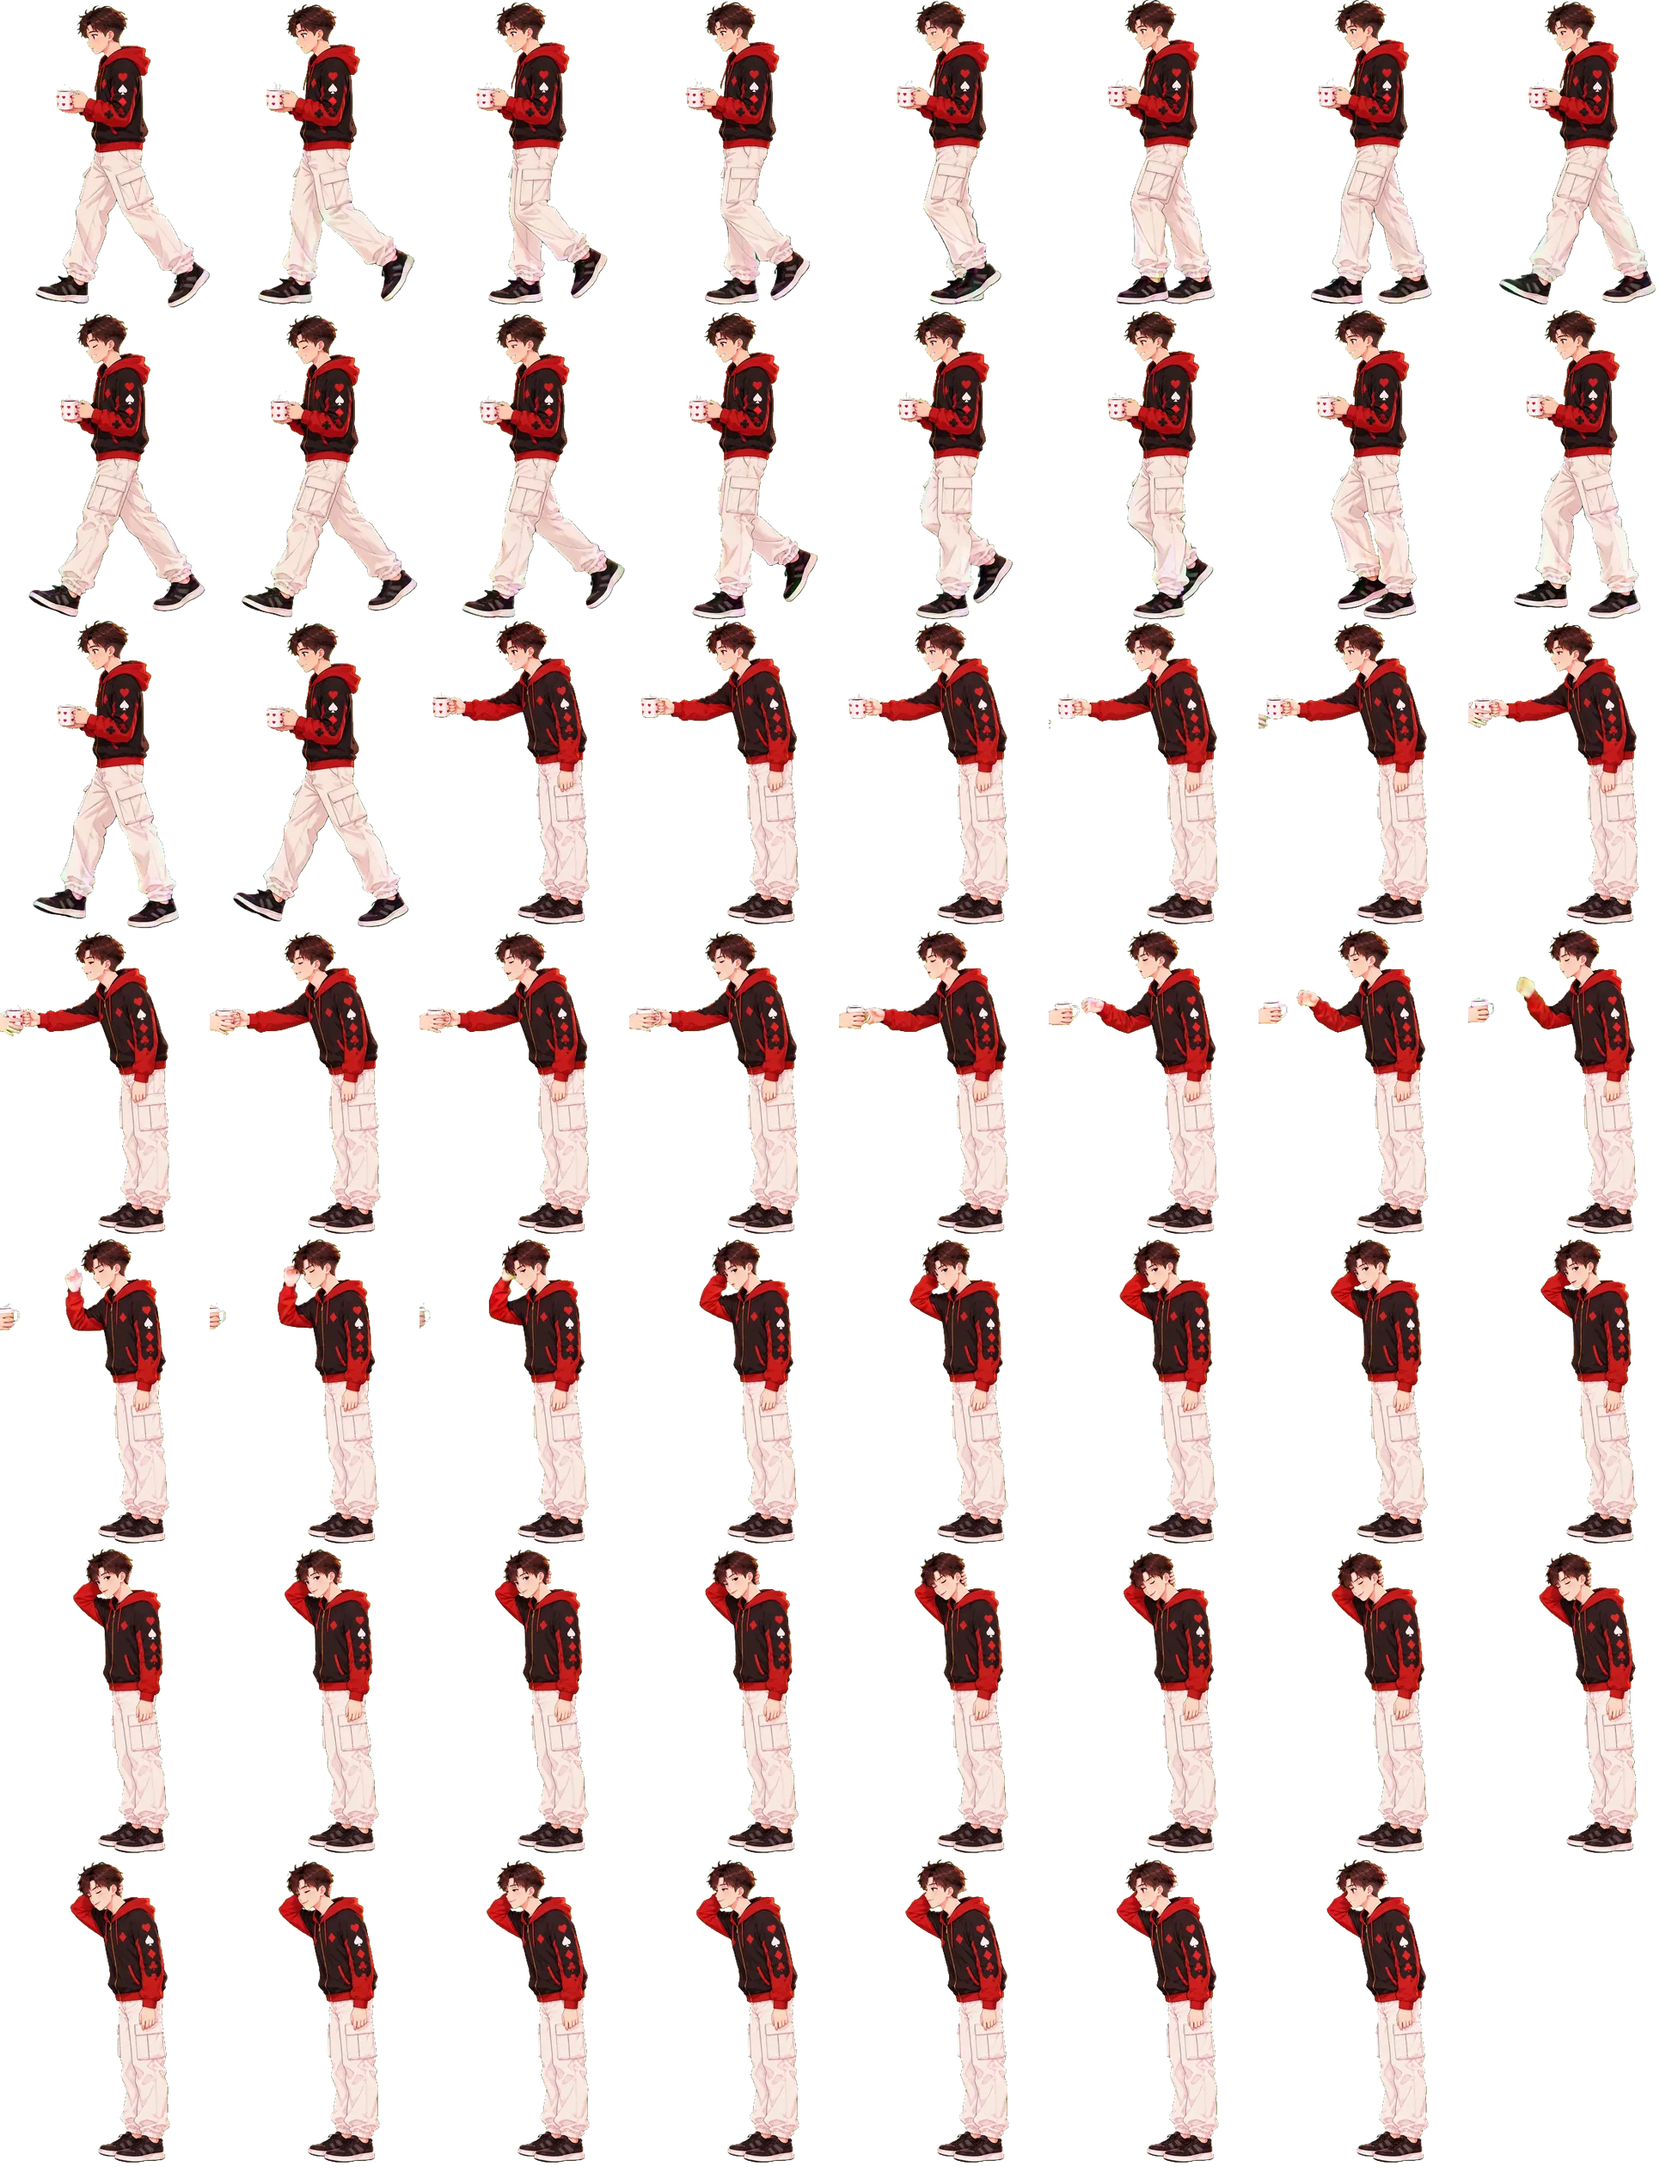
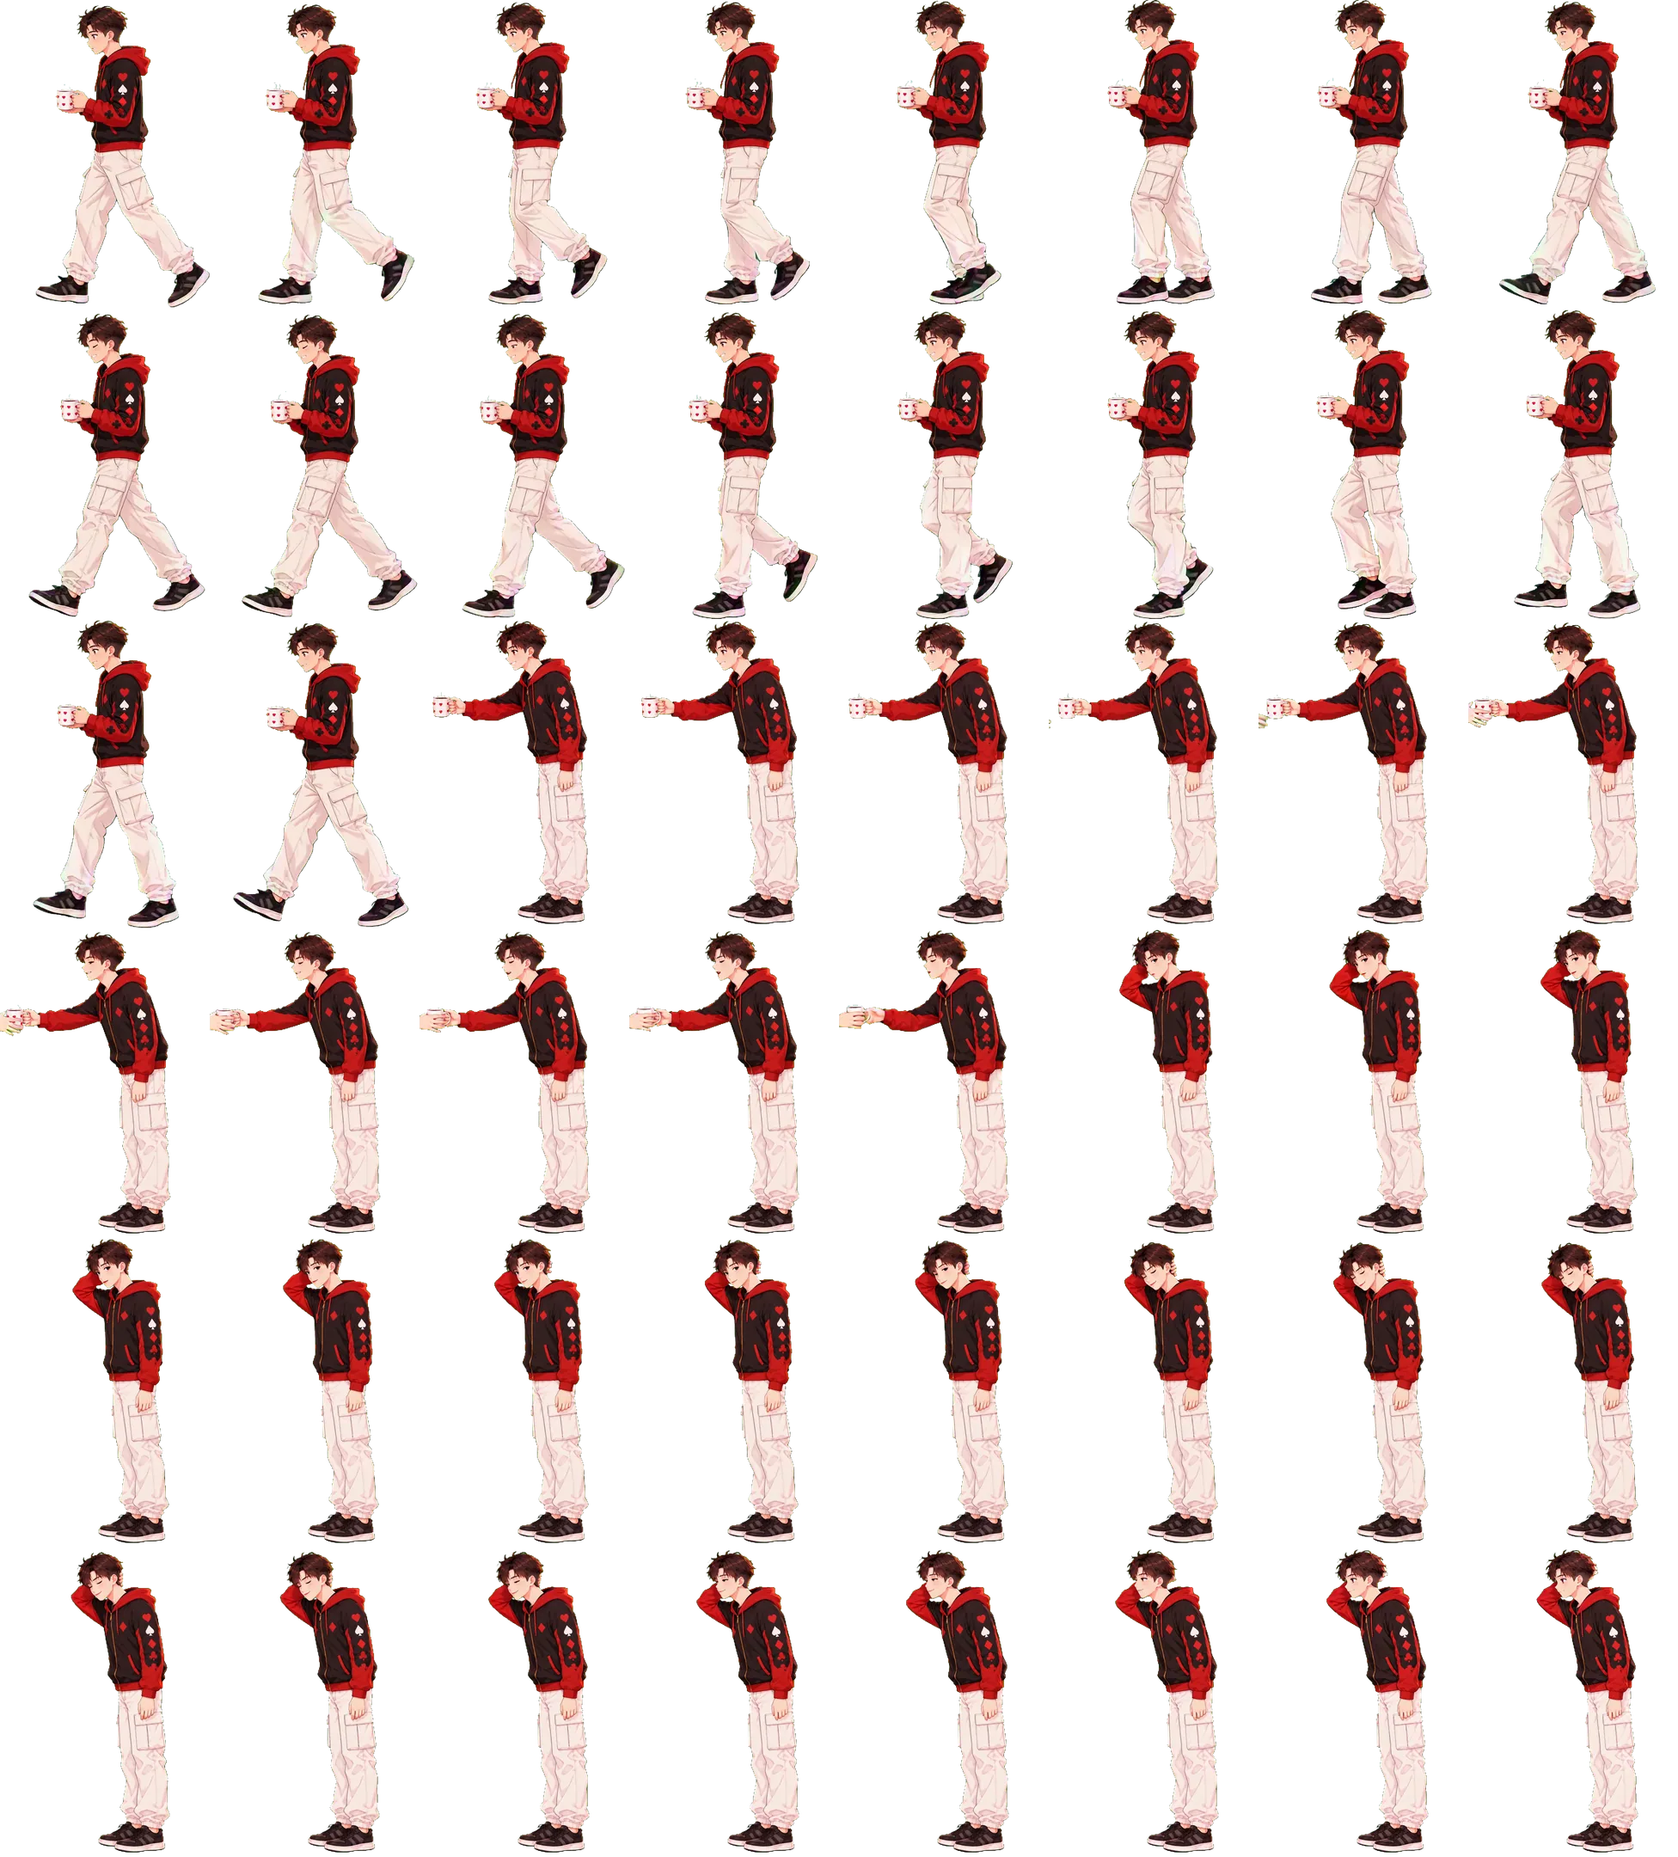
Capítulo IV: Coen pasa de caminar a ofrecer el café sin pausa, Ari despierta mientras él lo sostiene y lo recibe; sin la mano que aparecía de la nada

Changed region(s): [[0.0, 0.0, 1.0, 1.0]]

diff --git a/cuento.js b/cuento.js
@@ -340,10 +340,13 @@
       { fondo: 'fondo-noche.webp', suelo: 'suelo-noche.webp', titulo: 'Las 2 de la mañana', texto: '…y un error más.', pasos: [
         { actor: 'cama', x: 34, alto: 15, de: 0, a: 1, ms: 4500 },                                         // a la izquierda: programa en la cama… y se duerme
         { texto: { titulo: 'z z z…', texto: 'Se quedó dormida estudiando.' }, ms: 900 },
-        { actor: 'coen', camina: [0, 1], desde: 92, x: 51, alto: 16, ms: 3800, delante: true,
+        { actor: 'coen', camina: [0, 1], desde: 92, x: 47, alto: 16, ms: 3800, delante: true, pausa: 0,
           texto: { titulo: 'Y cada mañana…', texto: 'Coen llegaba con un café.' } },                        // Coen llega caminando con el café
-        { actor: 'coen', de: 2, a: 3, ms: 2600, pausa: 200 },                                               // se lo ofrece…
-        { actor: 'cama', de: 1, a: 2, ms: 3500, texto: { titulo: '«Despierta, que vas a lograrlo» ☕', texto: '' } },   // …y ella despierta con el café en la mano
+        { actor: 'coen', de: 1, a: 2, ms: 450, pausa: 0, sigue: true },                                      // sin detenerse, le extiende la taza
+        { actor: 'cama', de: 1, a: 2, ms: 3500, junto: true, sigue: true, texto: { titulo: '«Despierta, que vas a lograrlo» ☕', texto: '' } },   // ella despierta y se estira mientras él sostiene el café…
+        { actor: 'coen', de: 2, a: 3, ms: 2700, pausa: 0, sigue: true },
+        { actor: 'coen', de: 3, a: 4, ms: 450, pausa: 0, sigue: true },                                      // …y justo cuando ella tiene el café en la mano, él ya no lo tiene
+        { actor: 'coen', de: 4, a: 5, ms: 1800 },                                                            // y se rasca la cabeza, tímido
         { app: true, ms: 400 }                                                                              // baja la calculadora
       ] }
     ] },
@@ -491,8 +494,8 @@
         { actor: 'disp', x: 50, alto: 16, de: 0, a: 1, ms: 5000 },                   // al centro: arma el dispensador y lo muestra
         { actor: 'muro', x: 74, alto: 17, de: 0, a: 1, ms: 3500, quita: 'disp' },    // a la derecha: lo instala en el muro
         { actor: 'pac', camina: [0, 1], desde: 92, x: 82, alto: 16.5, ms: 3400, delante: true, pausa: 0 },   // una paciente llega caminando desde la derecha…
-        { actor: 'pac', de: 1, a: 2, ms: 450, pausa: 0 },                             // …y sin detenerse pasa de la caminata a estirar la mano (fundido)
-        { actor: 'pac', de: 2, a: 3, ms: 3000 }                                       // …saca uno del dispensador y sonríe
+        { actor: 'pac', de: 1, a: 2, ms: 450, pausa: 0, sigue: true },                             // …y sin detenerse pasa de la caminata a estirar la mano (fundido)
+        { actor: 'pac', de: 2, a: 3, ms: 3000, sigue: true }                                       // …saca uno del dispensador y sonríe
       ] },
       { fondo: 'fondo-feria.webp', suelo: 'suelo-feria.webp', pasos: [
         { actor: 'edu', x: 28, alto: 16, de: 0, a: 1, ms: 4500 }                      // a la izquierda: explica con una lámina a las alumnas
@@ -619,12 +622,12 @@
         const nuevo = !actores[nombre(p)];
         const a = await actor(p, p.d ?? .1, !!p.reemplaza);
         if (p.reemplaza) [].concat(p.reemplaza).forEach(sacar);
-        if (!(await espera(nuevo && !p.reemplaza ? 1100 : 300, mia))) return;
+        if (!(nuevo ? false : p.sigue) && !(await espera(nuevo && !p.reemplaza ? 1100 : 300, mia))) return;   // sigue: encadenado al paso anterior, sin respiro
         if (p.efecto) a.classList.add(p.efecto);
         if (p.abre && !a.dataset.abre) { a.dataset.abre = p.abre; a.classList.add('clicable'); a.addEventListener('click', () => window.dispatchEvent(new CustomEvent('cuento-app', { detail: { abrir: p.abre } }))); }
         if (p.rotulo && !a.querySelector('.hito-rotulo')) { const r = document.createElement('span'); r.className = 'hito-rotulo'; r.textContent = p.rotulo; a.append(r); }
         let ok;
-        if (p.junto) { if (p.camina) caminar(a, p, mia); await espera(120, mia); continue; }
+        if (p.junto) { if (p.camina) caminar(a, p, mia); else if (a._m && p.a != null) tramo(a, a._m.marcas[p.de ?? 0], a._m.marcas[p.a], p.ms, mia); if (!p.sigue) await espera(120, mia); continue; }   // junto: corre a la par del paso siguiente
         if (p.mueve != null) ok = await new Promise(fin => { a.style.transition = 'left ' + (p.ms || 1200) + 'ms cubic-bezier(.45,0,.3,1)'; a.style.left = (p.mueve - a._ancho / 2) + '%'; luego(() => { a.style.transition = ''; fin(mia === vuelta); }, p.ms || 1200); });
         else if (p.camina) ok = await caminar(a, p, mia);
         else if (p.linea) ok = await dibujar(a, p.ms || 3000, mia);

diff --git a/index.html b/index.html
@@ -32,7 +32,7 @@
   <script src="fondo-acuarela.js?v=20261007a" defer></script>
   <script src="secciones.js?v=20261011a" defer></script>
   <script src="libro.js?v=20261013b" defer></script>
-  <script src="cuento.js?v=20261014c" defer></script>
+  <script src="cuento.js?v=20261014d" defer></script>
   <script src="vendor/gsap.min.js" defer></script>
   <script src="vendor/MotionPathPlugin.min.js" defer></script>
   <script src="intro-trazos.js?v=20260929c" defer></script>
